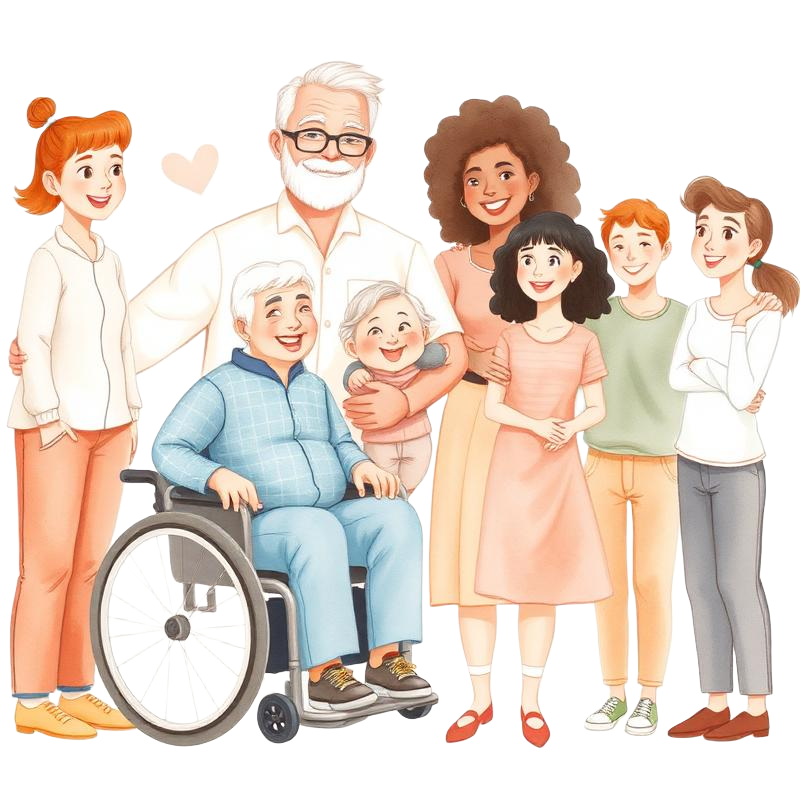
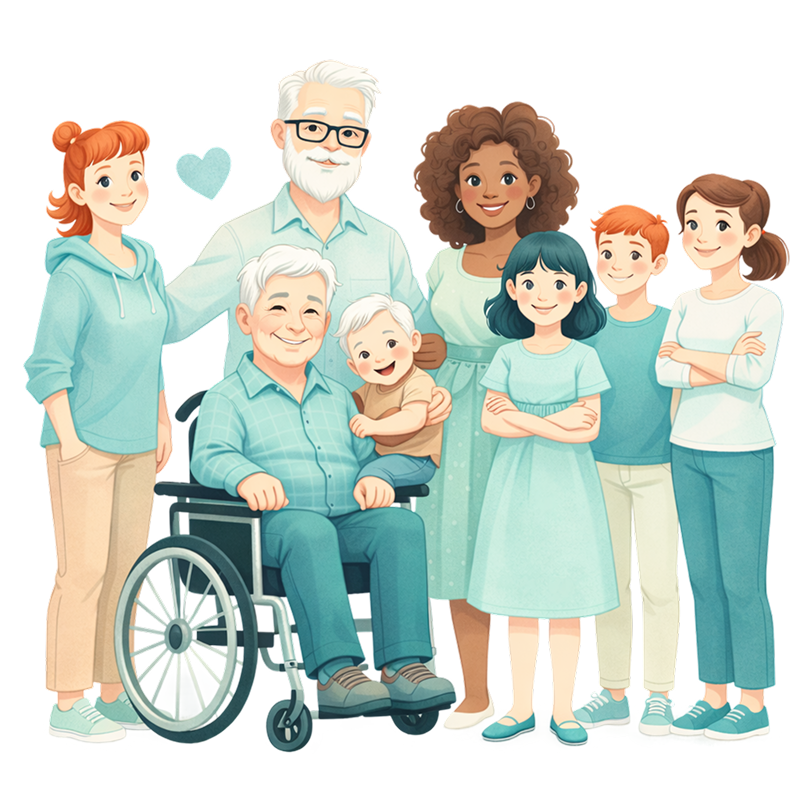
update colors and images

diff --git a/src/index.css b/src/index.css
@@ -9,13 +9,15 @@
     --background: 30 50% 98%;
     --foreground: 20 25% 20%;
 
-    --card: 30 40% 97%;
+    /* #F4FAFA */
+    --card: 180 38% 97%;
     --card-foreground: 20 25% 20%;
 
-    --popover: 30 40% 97%;
+    --popover: 180 38% 97%;
     --popover-foreground: 20 25% 20%;
 
-    --primary: 12 76% 62%;
+    /* #0C9691 */
+    --primary: 177 85% 32%;
     --primary-foreground: 0 0% 100%;
 
     --secondary: 210 40% 92%;
@@ -24,20 +26,22 @@
     --muted: 30 20% 94%;
     --muted-foreground: 20 10% 50%;
 
-    --accent: 265 40% 88%;
-    --accent-foreground: 265 40% 30%;
+    /* #CEE9E9 — outline/ghost buttons, menus, focus hovers */
+    --accent: 180 38% 86%;
+    --accent-foreground: 20 25% 20%;
 
     --destructive: 0 72% 55%;
     --destructive-foreground: 0 0% 100%;
 
     --border: 30 20% 90%;
     --input: 30 20% 88%;
-    --ring: 12 76% 62%;
+    --ring: 177 85% 32%;
 
     --radius: 1rem;
 
-    --spark-coral: 12 76% 62%;
-    --spark-peach: 20 80% 90%;
+    --spark-coral: 177 85% 32%;
+    /* #E1EBEB — settings/list icon wells, tags, cards using bg-spark-peach */
+    --spark-peach: 180 22% 90%;
     --spark-cream: 35 60% 95%;
     --spark-blue: 210 50% 85%;
     --spark-blue-deep: 210 50% 55%;
@@ -45,11 +49,11 @@
     --spark-green: 150 40% 55%;
     --spark-warm-gray: 20 10% 60%;
 
-    --gradient-warm: linear-gradient(135deg, hsl(20 80% 90%), hsl(12 76% 82%), hsl(265 40% 88%));
-    --gradient-primary: linear-gradient(135deg, hsl(12 76% 62%), hsl(350 65% 58%));
-    --gradient-soft: linear-gradient(180deg, hsl(30 50% 98%), hsl(20 80% 95%));
+    --gradient-warm: linear-gradient(135deg, #E2F0F0, #E2F0F0, #F3F5F5);
+    --gradient-primary: linear-gradient(135deg, #02807C, #106764);
+    --gradient-soft: #ffffff;
 
-    --shadow-soft: 0 4px 20px -4px hsl(12 76% 62% / 0.15);
+    --shadow-soft: 0 4px 20px -4px hsl(177 85% 32% / 0.15);
     --shadow-card: 0 2px 12px -2px hsl(20 25% 20% / 0.08);
     --shadow-elevated: 0 8px 30px -8px hsl(20 25% 20% / 0.12);
 

diff --git a/src/pages/OnboardingScreen.tsx b/src/pages/OnboardingScreen.tsx
@@ -26,7 +26,7 @@ const slides = [
   },
   {
     image: onboarding4,
-    title: "Find Meaningful Connections",
+    title: "Find Meaningful Sparks",
     description: "Whether it's friendship, companionship, or love — your spark is waiting.",
   },
 ];
